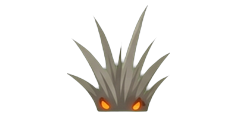
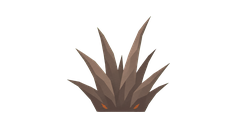
feat(art): 차원문 관전 화면의 마른 풀에 컷페이퍼 아트 적용

Changed region(s): [[0.2647, 0.0513, 0.7353, 0.9744], [0.2647, 0.6154, 0.2941, 0.641]]

diff --git a/.art/PRODUCTION-STATUS.md b/.art/PRODUCTION-STATUS.md
@@ -212,7 +212,7 @@
 | `Background/Gate/tree_3.png` | 클라이언트 PR (이슈 #515) | **실제 경기 검수 대기.** 차원문 6단계 지도와 맞춘 무광 그루터기다. 열린 윗부분과 돌출된 뿌리, 어두운 주황 균열을 남겼다. 234×218, PPU 100, 하단 중앙 피벗. 알파 바닥선은 기존과 같고 외곽 폭은 207px에서 201px로 줄었다. |
 | `Background/Gate/tree_4.png` | 클라이언트 PR (이슈 #518) | **실제 경기 검수 대기.** 굽은 큰 가지와 넓게 뻗은 뿌리을 살린 무광 컷페이퍼 아트다. 328×264 RGBA, 기존 GUID·임포트와 알파 가로 외곽 및 바닥 높이를 유지했다. 알파 외곽의 위쪽은 4px 낮아졌다. |
 | `Background/Gate/rock.png` | 클라이언트 PR (이슈 #521) | **실제 경기 검수 대기.** 낮고 넓게 쌓인 바위와 옅은 균열을 살린 무광 컷페이퍼 아트다. 452×166 RGBA, 기존 GUID·임포트와 알파 가로 외곽 및 바닥 높이를 유지했다. 알파 외곽의 위쪽은 5px 낮아졌다. |
-| `Background/Gate/grass_1.png` | 클라이언트 PR (이슈 #235) | **검수 대기, 자리표시 아트.** 차원문 모험(adventure 3) 전투 배경 theme 의 새 파일(`Background/Fortress/grass_1.png` 와 같은 이름·크기). 238x117 RGBA, 마른 재색 풀 한 포기와 불씨 둘. `GateBattleTheme.asset` 이 참조하고 `GateAdventure.asset` 의 `battleTheme` 이 이 asset 을 가리킨다. `agy` 생성, 초록 배경 key 제거. Editor 미검증 |
+| `Background/Gate/grass_1.png` | 클라이언트 PR (이슈 #526) | **실제 관전 화면 검수 대기.** 차원문 암반에 맞는 무광 재색 풀과 작은 불씨 두 개. 238×117, PPU 100, 하단 중앙 피벗. 알파 좌우와 바닥 높이는 같고 끝은 기존보다 11px 낮다. GATE 관전 테마의 `grass_1` 배치 5곳에서 사용한다. |
 | `Background/Gate/grass_2.png` | 클라이언트 PR (이슈 #235) | **검수 대기, 자리표시 아트.** 차원문 모험(adventure 3) 전투 배경 theme 의 새 파일(`Background/Fortress/grass_2.png` 와 같은 이름·크기). 466x99 RGBA, 마른 풀 다섯 포기 줄. `GateBattleTheme.asset` 이 참조하고 `GateAdventure.asset` 의 `battleTheme` 이 이 asset 을 가리킨다. `agy` 생성, 초록 배경 key 제거. Editor 미검증 |
 | `UI/Card/type_fire.png`, `type_water.png`, `type_nature.png`, `type_lightning.png`, `type_rock.png`, `type_wind.png` | 클라이언트 PR (이슈 #304) | **검수 대기.** 원소 아이콘 6장. 마법서 상성표, 도감 원소 칩, 덱 카드가 `CardImageMapper.asset` 으로 쓴다. 181x256 · 180x256 · 136x256 · 161x256 · 256x192 · 256x195 RGBA(옛 128 긴 변의 두 배), 여백 없이 잘랐다. 여섯 장을 1536x1024 한 캔버스의 3x2 격자에 같이 그리게 해 한 번에 통과했다(`codex` `image_gen` 1회). 레퍼런스는 `MasterStyleKey.png`, `ArcaneImpact.png`, 원소 룬 여섯 장 합성. magenta key 제거, 네 모서리 alpha 0, 불투명 픽셀에 magenta 잔색 0. 쓰는 곳이 모두 `preserveAspect` 인 UI `Image` 라 화면 크기는 RectTransform 과 가로세로 비로만 정해지고 픽셀 수·PPU 와 무관하다 — `.meta` 는 그대로 뒀다. 가로세로 비는 다섯 장이 옛 비의 8% 안이다. `type_wind` 만 1.88 에서 1.31 로 바뀌어 상성표 칸 안에서 옛 그림보다 세로로 커진다(옛 바람이 여섯 중 가장 작아 보였다). 프롬프트는 1.9 를 숫자로 요구했지만 격자 한 칸 안에서는 지켜지지 않았다 |
 | `PveBrickGolem.png`, `PveBrickGolem2.png` | 클라이언트 PR (이슈 #329) | **검수 대기, 새 파일.** 요새 마지막 보스 벽돌 골렘의 기본 자세(두 주먹을 땅에 댄 자세)와 공격 자세(한 팔을 높이 든 자세). 256x251 RGBA, PPU 70, Bottom Center. 두 자세를 한 캔버스의 twin panel 로 한 번에 생성(v1 한 번에 통과)하고 공유 crop box `(0, 19, 884, 887)` 와 공유 배율 0.2896 으로 잘랐다. 눈은 몸통 중심보다 오른쪽(파일은 오른쪽을 보고, 경기에서는 RightPlayer 라 뒤집혀 왼쪽을 본다). magenta key 제거, 불투명 픽셀의 magenta 잔색 0, 네 모서리 alpha 0. 공격 자세는 잔해 바닥이 기본 자세보다 3px 위에서 끝난다. `.art/concept/brick-golem/README.md` |
